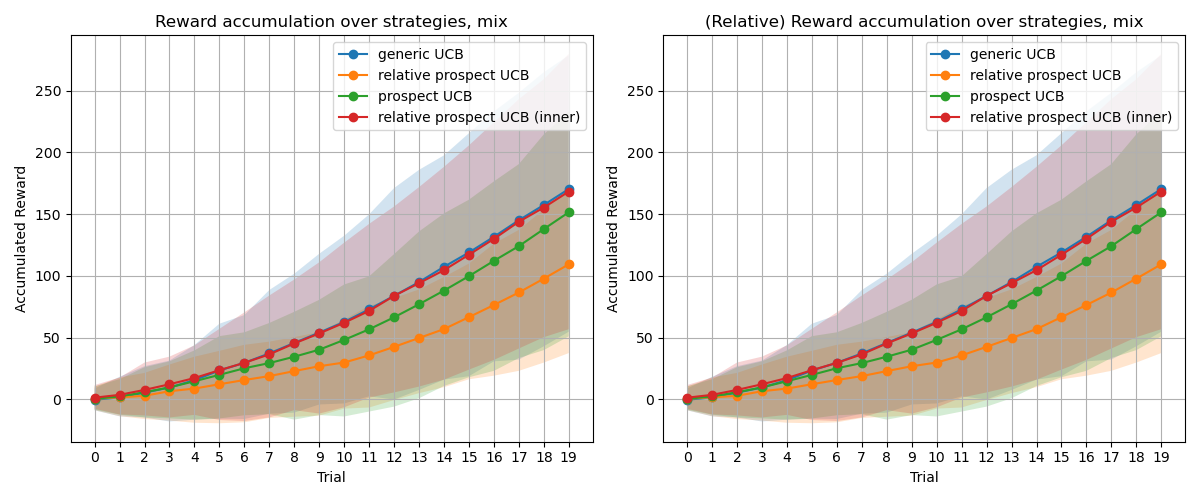
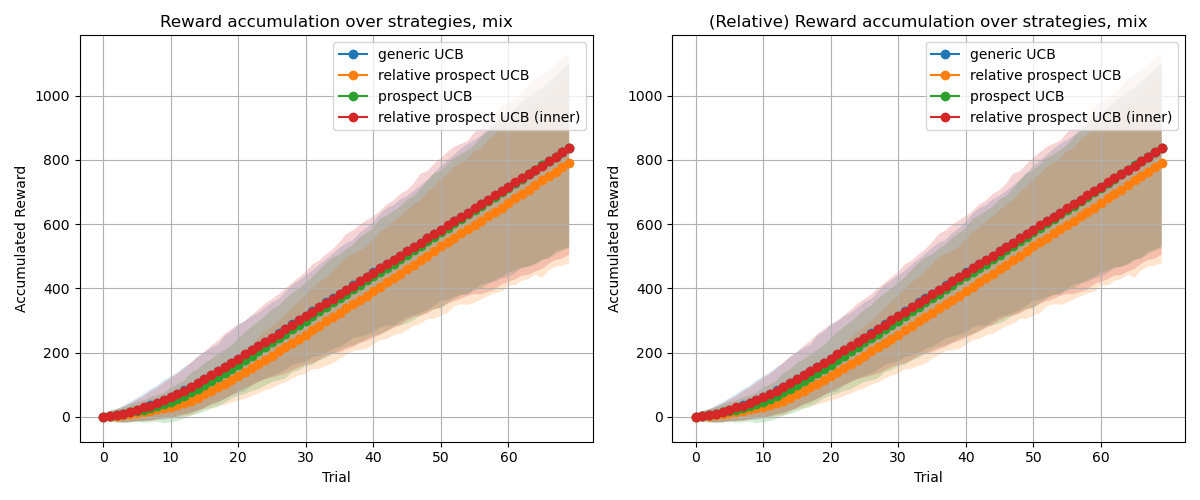
feat: use expected means and shifted copies of one env

diff --git a/test.py b/test.py
@@ -6,13 +6,16 @@ import matplotlib.pyplot as plt
 np.random.seed(42)
 variance = 10
 noise = 10
-horizon = 20
+horizon = 70
 num = 300
 mean = [50, 0, -50]
+expected_mean = [50, 0, -50]
 
 mix_env = np.random.normal(mean[1], variance, 10 * num).reshape(num, 10)
-pos_env = np.random.normal(mean[0], variance, 10 * num).reshape(num, 10)
-neg_env = np.random.normal(mean[2], variance, 10 * num).reshape(num, 10)
+pos_env = mix_env + 50
+neg_env = mix_env - 50
+#pos_env = np.random.normal(mean[0], variance, 10 * num).reshape(num, 10)
+#neg_env = np.random.normal(mean[2], variance, 10 * num).reshape(num, 10)
 tot_env = [pos_env, mix_env, neg_env]
 env_name = ['pos', 'mix', 'neg']
 
@@ -100,7 +103,7 @@ for i in range(4):
     for t in range(num):
         for e in range(3):
             env_input = tot_env[e][t, :]
-            _, r, total, s = simulate(i, env_input, mean[e])
+            _, r, total, s = simulate(i, env_input, expected_mean[e])
             result_r[e][i].append(np.cumsum(r))
             tot_r[e][i].append(total)
             switch[e][i].append(s)
@@ -125,13 +128,13 @@ for e in range(3) :
         q3 = np.percentile(data, 75, axis = 0)
         axes[1].fill_between(x, q1, q3, alpha = 0.2)
     axes[0].set_xlabel("Trial")
-    axes[0].set_xticks([i for i in range(horizon)])
+    axes[0].set_xticks([i*10 for i in range(int(horizon/10))])
     axes[0].set_ylabel("Accumulated Reward")
     axes[0].legend()
     axes[0].grid(True)
 
     axes[1].set_xlabel("Trial")
-    axes[1].set_xticks([i for i in range(horizon)])
+    axes[1].set_xticks([i*10 for i in range(int(horizon/10))])
     axes[1].set_ylabel("Accumulated Reward")
     axes[1].legend()
     axes[1].grid(True)
@@ -143,8 +146,8 @@ for e in range(3) :
     plt.figure(figsize=(9, 5))
     plt.title('(relative) Reward over strategies, ' + env_name[e])
     data = np.mean(tot_r[e], axis=1) - mean[e] * horizon
-    q1 = np.percentile(tot_r[e]- mean[e] * horizon, 25, axis=1)
-    q3 = np.percentile(tot_r[e]- mean[e] * horizon, 75, axis=1) 
+    q1 = np.percentile(tot_r[e] - mean[e] * horizon, 25, axis=1)
+    q3 = np.percentile(tot_r[e] - mean[e] * horizon, 75, axis=1) 
     err = np.vstack([data - q1, q3 - data]) 
     plt.bar([i for i in range(4)], data, yerr = err, width = 0.6, error_kw={
     'ecolor': 'gray',
@@ -172,7 +175,6 @@ for e in range(3):
     q3 = np.percentile(switch[e], 75, axis=1)
     err = np.vstack([data - q1, q3 - data])
     
-    # 각 env의 bar 위치는 x + offset
     plt.bar(
         x + offsets[e], data, width=bar_width, yerr=err,
         label=env_name[e],
@@ -196,4 +198,3 @@ plt.grid(True, axis='y')
 plt.legend()
 plt.tight_layout()
 plt.savefig("images/grouped switch ratio.png")
-plt.show()
